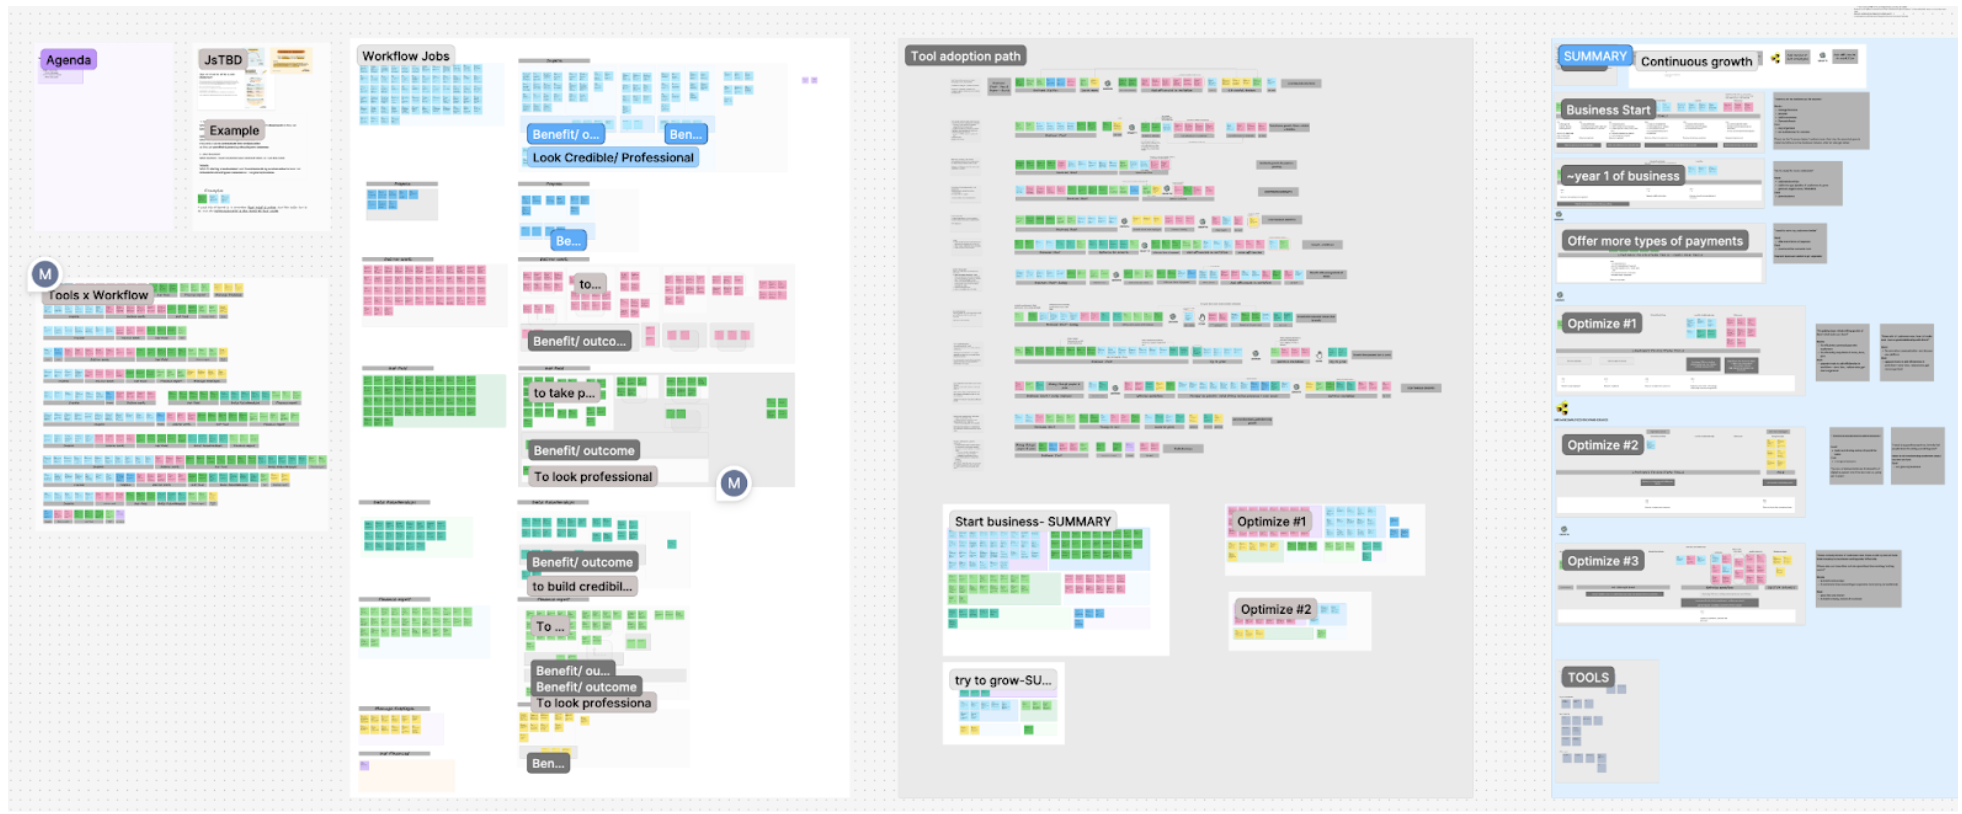
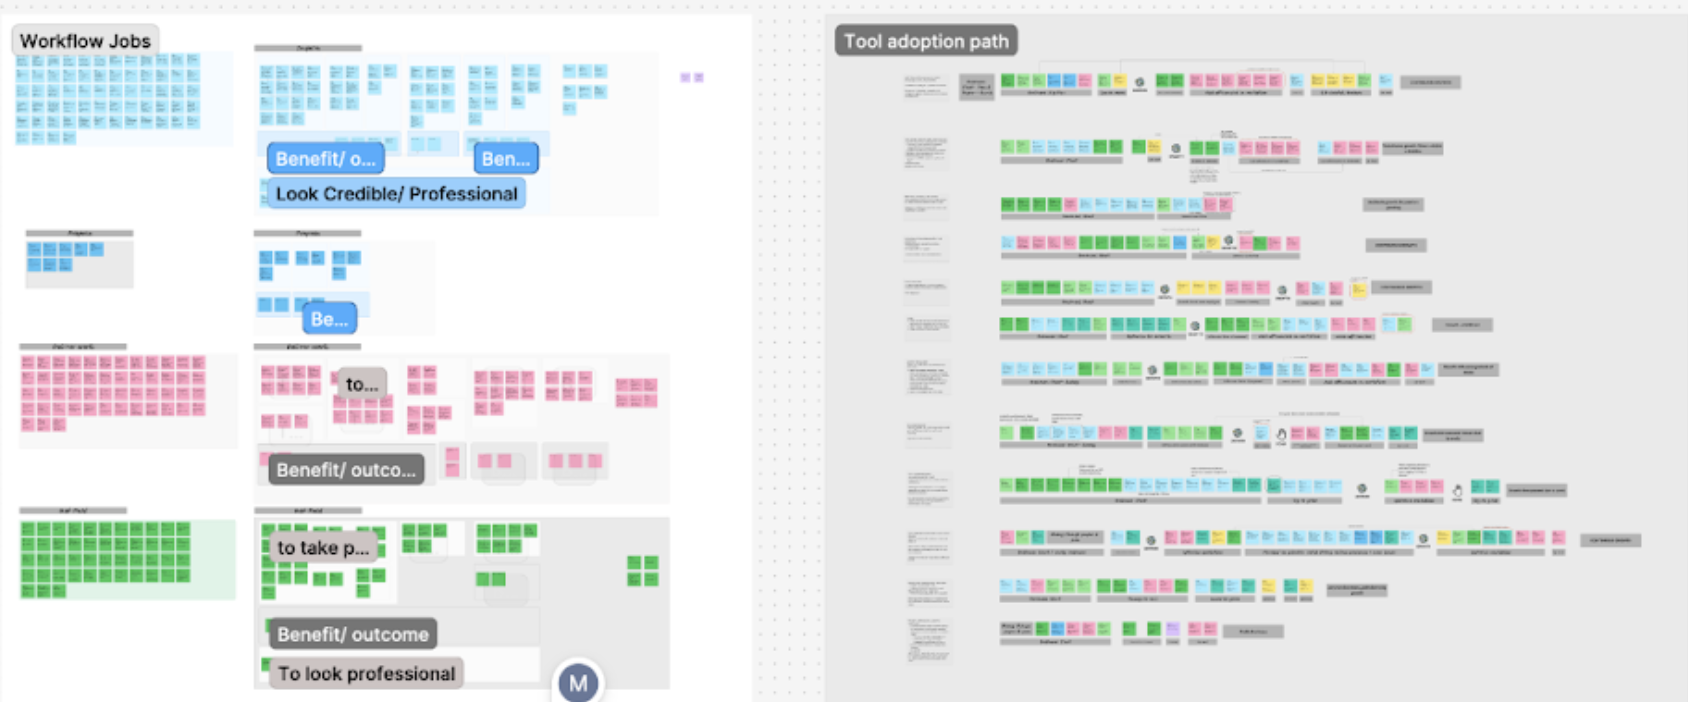
project detail structure and finished services project details

diff --git a/script.js b/script.js
@@ -164,17 +164,18 @@ const PROJECTS = [
         sectionImages:{
           title:'Stakeholder Workshop on FigJam',
           paths:['images/Services tool adoption-workshop 1.png','images/Services tool adoption-workshop 2.png'],
+          cover: true,
         },
       },
       { name:'Findings', icon:'bulb',
+        layout:'findings',
         bullets:[
           'Tools are hired in acute moments, not planned in advance. Sellers adopt tools reactively at each growth stage — payments and websites at launch, lead management and scheduling as they scale.',
           '"Grow Customer" jobs-to-be-done are the highest-pain, lowest-cohesion part of the workflow. Sellers cobble together scheduling, CRM, and communications tools to manage leads — and only recognize the fragmentation once they\'re already scaling.',
         ],
-        charSpeech: 'Qualitative findings alone weren\'t enough to convey pain. I pulled in product satisfaction metrics to make it harder to deprioritize this learning.',
-        sectionImages:{
-          paths:['images/finding 1- services tool adoption.png','images/finding 2- services tool adoption.png'],
-        },
+        topImages:['images/finding 1- services tool adoption.png','images/finding 2- services tool adoption.png'],
+        sideImage:'images/finding 3- services tool adoption.png',
+        charSpeech:'Qualitative findings alone weren\'t enough to convey pain. I pulled in product satisfaction metrics to make it harder to deprioritize this learning.',
       },
       { name:'Impact', icon:'rocket',
         bullets:[
@@ -1038,14 +1039,26 @@ function QuestPage({ project, onClose }) {
               }}>
                 <Icon name="arrow-left" size={16}/> Back to map
               </button>
-              <div style={{marginTop:18, display:'flex', gap:8}}>
-                <span className="br-tag" style={{background:'rgba(255,255,255,.7)', color:BR.deep, borderColor:'rgba(255,255,255,.4)'}}>
-                  <Icon name="map-pin" size={11}/> Quest
-                </span>
-                <span className="br-tag" style={{background:'rgba(255,255,255,.7)', color:BR.deep, borderColor:'rgba(255,255,255,.4)'}}>
-                  {project.tag}
-                </span>
-              </div>
+              {(() => {
+                const methods = project.method
+                  ? project.method.split('·').map(m => m.trim())
+                  : [];
+                const pill = (text, bg, color, border) => (
+                  <span key={text} className="br-tag" style={{
+                    background:bg, color, borderColor:border,
+                    textTransform:'capitalize', whiteSpace:'nowrap', flexShrink:0,
+                  }}>{text}</span>
+                );
+                return (
+                  <div style={{marginTop:18, display:'flex', gap:6, flexWrap:'nowrap', alignItems:'center'}}>
+                    {pill(project.tag, 'rgba(59,191,176,.2)', '#0F5E55', 'rgba(59,191,176,.4)')}
+                    {methods.map(m =>
+                      pill(m, 'rgba(245,200,66,.28)', '#6A4E00', 'rgba(245,200,66,.55)')
+                    )}
+                    {project.timeline && pill(project.timeline, 'rgba(125,212,224,.25)', '#1A5A6A', 'rgba(125,212,224,.45)')}
+                  </div>
+                );
+              })()}
               <h1 className="br-h1" style={{marginTop:10, color:BR.deep, fontSize:48, maxWidth:660}}>
                 <Editable id={`q_title_${project.id}`} defaultValue={project.title}/>
               </h1>
@@ -1212,10 +1225,10 @@ function SceneCard({ idx, scene, pid, accent }) {
               <CharSpeech text={scene.postSpeech}/>
             </div>
           </>
-        ) : scene.bullets ? (
-          <div style={{display:'flex', flexDirection:'column', gap:16}}>
-            {/* Bullet list */}
-            <div style={{display:'flex', flexDirection:'column', gap:14}}>
+        ) : scene.layout === 'findings' ? (
+          <>
+            {/* Finding bullets */}
+            <div style={{display:'flex', flexDirection:'column', gap:14, marginBottom:20}}>
               {scene.bullets.map((b, i) => (
                 <div key={i} style={{display:'flex', gap:14, alignItems:'flex-start'}}>
                   <div style={{
@@ -1228,10 +1241,46 @@ function SceneCard({ idx, scene, pid, accent }) {
               ))}
             </div>
 
-            {/* Optional character speech after bullets */}
-            {scene.charSpeech && (
+            {/* Finding 1 + 2 above the character */}
+            <div style={{display:'grid', gridTemplateColumns:'1fr 1fr', gap:12, marginBottom:16}}>
+              {scene.topImages.map((src, i) => (
+                <div key={i} style={{
+                  borderRadius:10, overflow:'hidden',
+                  boxShadow:'0 2px 10px rgba(26,58,58,.1)',
+                  border:`1px solid ${BR.deep10}`,
+                }}>
+                  <img src={src} alt="" style={{width:'100%', height:'auto', display:'block'}}/>
+                </div>
+              ))}
+            </div>
+
+            {/* Character (left) + Finding 3 (right) side by side */}
+            <div style={{display:'grid', gridTemplateColumns:'1fr 1fr', gap:16, alignItems:'start'}}>
               <CharSpeech text={scene.charSpeech}/>
-            )}
+              <div style={{
+                borderRadius:10, overflow:'hidden',
+                boxShadow:'0 2px 10px rgba(26,58,58,.1)',
+                border:`1px solid ${BR.deep10}`,
+              }}>
+                <img src={scene.sideImage} alt="" style={{width:'100%', height:'auto', display:'block'}}/>
+              </div>
+            </div>
+          </>
+        ) : scene.bullets ? (
+          <div style={{display:'flex', flexDirection:'column', gap:16}}>
+            <div style={{display:'flex', flexDirection:'column', gap:14}}>
+              {scene.bullets.map((b, i) => (
+                <div key={i} style={{display:'flex', gap:14, alignItems:'flex-start'}}>
+                  <div style={{
+                    width:8, height:8, borderRadius:'50%',
+                    background:accent, marginTop:6, flexShrink:0,
+                    boxShadow:`0 0 0 3px ${accent}28`,
+                  }}/>
+                  <p className="br-body" style={{fontSize:15, color:BR.deep70, margin:0, lineHeight:1.65}}>{b}</p>
+                </div>
+              ))}
+            </div>
+            {scene.charSpeech && <CharSpeech text={scene.charSpeech}/>}
           </div>
         ) : scene.body ? (
           <p className="br-body" style={{fontSize:15, color:BR.deep70, margin:0, lineHeight:1.65}}>{scene.body}</p>
@@ -1266,12 +1315,17 @@ function SceneCard({ idx, scene, pid, accent }) {
                   borderRadius:10, overflow:'hidden',
                   boxShadow:'0 2px 12px rgba(26,58,58,.1)',
                   border:`1px solid ${BR.deep10}`,
-                  background:'#111',
+                  ...(scene.sectionImages.cover ? {height:220} : {}),
                 }}>
                   <img
                     src={src}
                     alt=""
-                    style={{width:'100%', height:'auto', display:'block'}}
+                    style={{
+                      width:'100%', display:'block',
+                      ...(scene.sectionImages.cover
+                        ? {height:'100%', objectFit:'cover', objectPosition:'center'}
+                        : {height:'auto'}),
+                    }}
                   />
                 </div>
               ))}
